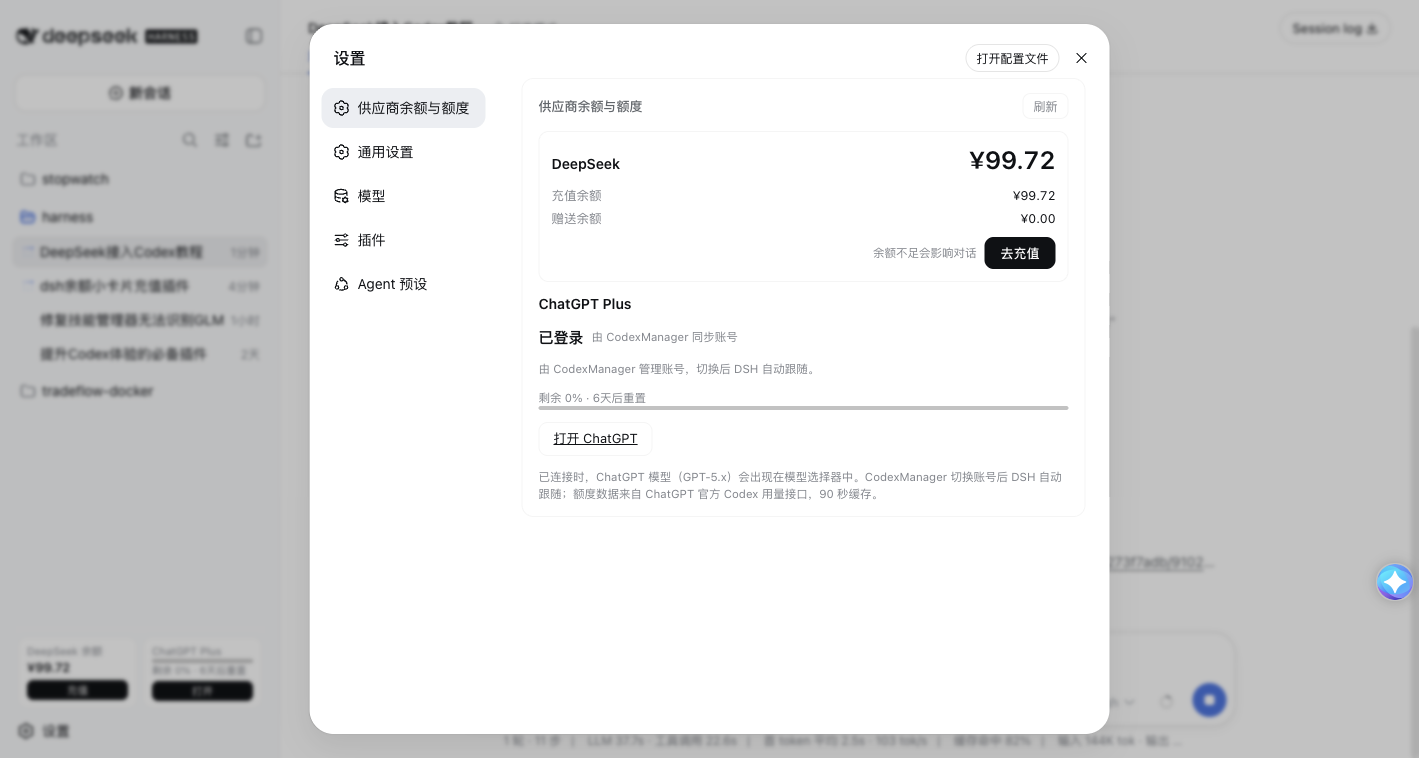
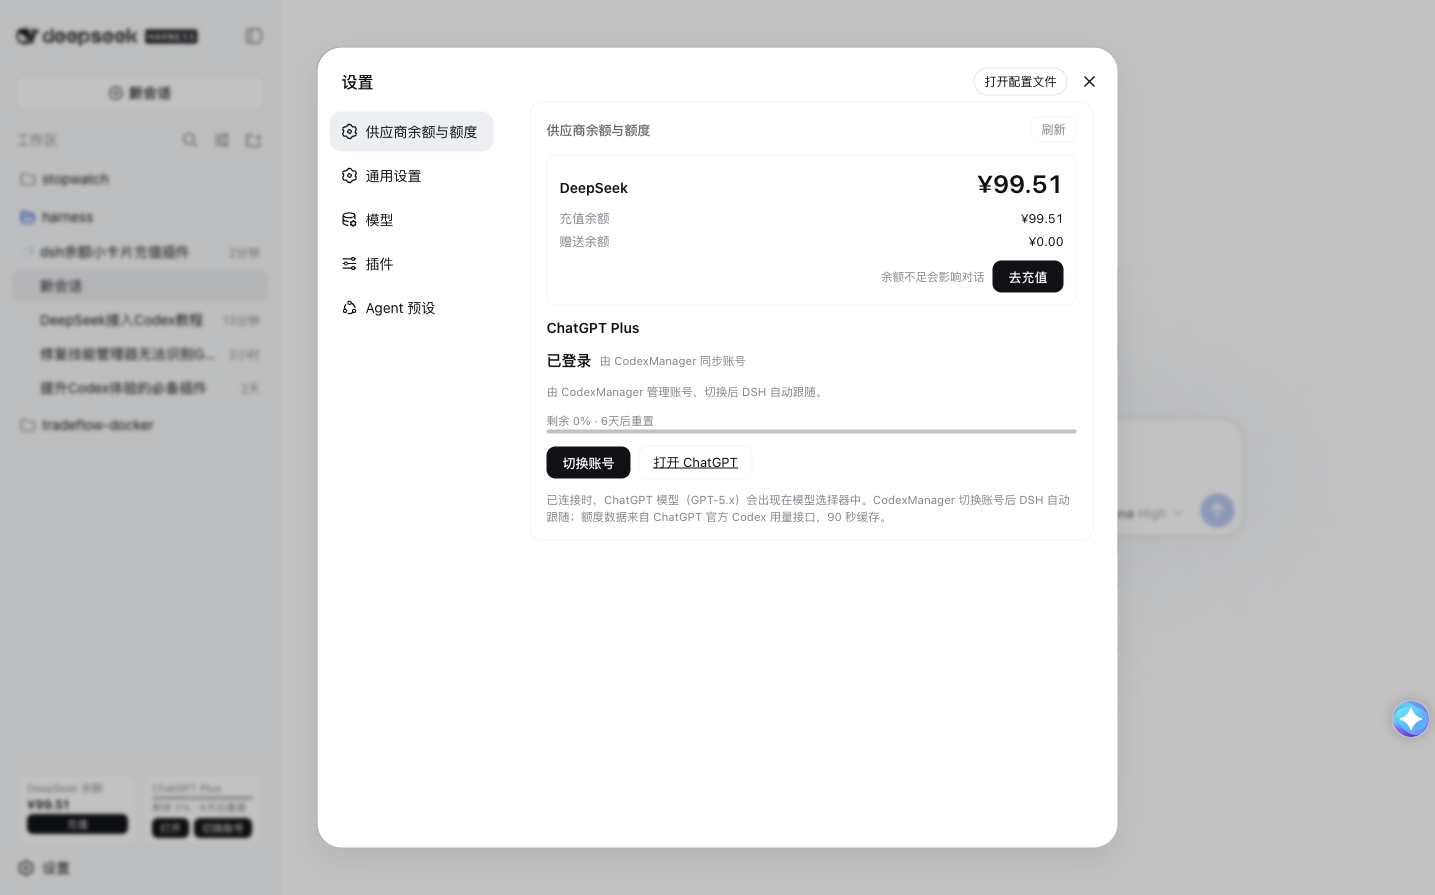
feat: add web account switching entry points

diff --git a/dsh-chatgpt-login/lib/client.js b/dsh-chatgpt-login/lib/client.js
@@ -81,7 +81,8 @@ window.__ModuleLoader__.load({
 			".dshg-progressFill{height:100%;border-radius:999px;background:var(--dsw-alias-state-success-primary);transition:width .25s ease}",
 			".dshg-progressFill.warn{background:var(--dsw-alias-state-warn-primary)}",
 			".dshg-quotaMeta{font-size:10px;line-height:13px;color:var(--dsw-alias-label-tertiary);white-space:nowrap}",
-			".dshg-segBtn{display:inline-flex;align-items:center;justify-content:center;height:20px;margin-top:3px;padding:0 8px;border:none;border-radius:6px;background:var(--dsw-alias-button-primary-fill);color:var(--dsw-alias-label-primary-inverted);text-decoration:none;font-family:inherit;font-size:10.5px;line-height:20px;cursor:pointer}",
+			".dshg-segActions{display:flex;align-items:center;gap:5px;margin-top:3px}",
+			".dshg-segBtn{display:inline-flex;align-items:center;justify-content:center;height:20px;margin:0;padding:0 8px;border:0;border-radius:6px;background:var(--dsw-alias-button-primary-fill);color:var(--dsw-alias-label-primary-inverted);text-decoration:none;font-family:inherit;font-size:10.5px;line-height:20px;cursor:pointer}",
 			".dshg-segBtn:hover{background:var(--dsw-alias-button-primary-hover)}",
 			".dshg-railBtn{display:inline-flex;align-items:center;justify-content:center;width:28px;height:28px;border:none;border-radius:50%;background:var(--dsw-alias-bg-layer-1);color:var(--dsw-alias-label-secondary);font-size:13px;font-weight:600;text-decoration:none;cursor:pointer}",
 			".dshg-railBtn:hover{background:var(--dsw-alias-interactive-bg-hover);color:var(--dsw-alias-label-primary)}",
@@ -166,9 +167,42 @@ window.__ModuleLoader__.load({
 		function SidebarWidget({ wide }) {
 			const chat = useChatGptState();
 			const ds = useDeepSeekBalance();
+			const [switchCode, setSwitchCode] = useState(null);
+			const [switching, setSwitching] = useState(false);
 			const loggedIn = chat.status?.loggedIn === true;
 			const info = chat.status?.account ?? chat.status?.accountId;
 			const chip = quotaChip(chat.quota, loggedIn);
+
+			const switchAccount = () => {
+				const popup = window.open("about:blank", "_blank");
+				setSwitching(true);
+				fetch(LOGIN_START_URL, { method: "POST", headers: { accept: "application/json" } })
+					.then((r) => r.json().catch(() => null))
+					.then((body) => {
+						setSwitching(false);
+						if (body?.ok) {
+							setSwitchCode(body.userCode);
+							if (popup) popup.location.href = body.verificationUrl;
+							else window.open(body.verificationUrl, "_blank");
+						} else if (popup) {
+							popup.close();
+						}
+					})
+					.catch(() => { setSwitching(false); if (popup) popup.close(); });
+			};
+
+			useEffect(() => {
+				if (!switchCode) return;
+				const timer = setInterval(() => {
+					fetch(LOGIN_STATUS_URL, { headers: { accept: "application/json" } })
+						.then((r) => r.json().catch(() => null))
+						.then((body) => {
+							if (body?.state === "approved") { setSwitchCode(null); chat.refresh(); }
+						})
+					.catch(() => {});
+				}, 3000);
+				return () => clearInterval(timer);
+			}, [switchCode]);
 
 			useEffect(() => {
 				const style = document.createElement("style");
@@ -220,8 +254,12 @@ window.__ModuleLoader__.load({
 							jsx("span", { className: "dshg-segLabel", children: planLabel(chat.status?.plan) }),
 							!loggedIn && jsx("span", { className: "dshg-segValue dim", children: "未登录" }),
 							loggedIn && remainingPercent(chat.quota) !== null && jsx("div", { className: "dshg-progress", children: jsx("div", { className: `dshg-progressFill${chip.cls === "warn" ? " warn" : ""}`, style: { width: `${remainingPercent(chat.quota)}%` } }) }),
-							loggedIn && remainingPercent(chat.quota) !== null && jsx("span", { className: "dshg-quotaMeta", children: `剩余 ${remainingPercent(chat.quota)}% · ${resetLabel(chat.quota)}` }),
-							jsx("a", { className: "dshg-segBtn", href: CHATGPT_URL, target: "_blank", rel: "noopener noreferrer", onClick: (e) => e.stopPropagation(), children: loggedIn ? "打开" : "登录" }),
+							loggedIn && remainingPercent(chat.quota) !== null && jsx("span", { className: "dshg-quotaMeta", children: switchCode ? `验证码 ${switchCode}` : `剩余 ${remainingPercent(chat.quota)}% · ${resetLabel(chat.quota)}` }),
+							!loggedIn && jsx("span", { className: "dshg-quotaMeta", children: switchCode ? `验证码 ${switchCode}` : "" }),
+							jsxs("div", { className: "dshg-segActions", children: [
+								jsx("a", { className: "dshg-segBtn", href: CHATGPT_URL, target: "_blank", rel: "noopener noreferrer", onClick: (e) => e.stopPropagation(), children: loggedIn ? "打开" : "登录" }),
+								jsx("button", { type: "button", className: "dshg-segBtn", disabled: switching, onClick: (e) => { e.stopPropagation(); switchAccount(); }, children: switching ? "授权中…" : "切换账号" }),
+							] }),
 						],
 					}),
 				],
@@ -274,6 +312,7 @@ window.__ModuleLoader__.load({
 			const chip = quotaChip(chat.quota, loggedIn);
 
 			const startLogin = () => {
+				const popup = window.open("about:blank", "_blank");
 				setBusy(true);
 				setMsg(null);
 				fetch(LOGIN_START_URL, { method: "POST", headers: { accept: "application/json" } })
@@ -282,11 +321,14 @@ window.__ModuleLoader__.load({
 						setBusy(false);
 						if (body && body.ok === true) {
 							setFlow({ state: "pending", userCode: body.userCode, verificationUrl: body.verificationUrl });
+							if (popup) popup.location.href = body.verificationUrl;
+							else window.open(body.verificationUrl, "_blank");
 						} else {
+							if (popup) popup.close();
 							setMsg({ kind: "bad", text: body?.message ?? "发起授权失败。" });
 						}
 					})
-					.catch(() => { setBusy(false); setMsg({ kind: "bad", text: "网络请求失败，请稍后重试。" }); });
+					.catch(() => { setBusy(false); if (popup) popup.close(); setMsg({ kind: "bad", text: "网络请求失败，请稍后重试。" }); });
 			};
 
 			const logout = () => {
@@ -386,7 +428,7 @@ window.__ModuleLoader__.load({
 					jsxs("div", {
 						className: "dshg-actions",
 						children: [
-							!managedByCodex && jsx("button", { type: "button", className: "dshg-primary", onClick: startLogin, disabled: busy, children: loggedIn ? "重新授权" : "一键授权登录" }),
+							jsx("button", { type: "button", className: "dshg-primary", onClick: startLogin, disabled: busy, children: loggedIn ? "切换账号" : "一键授权登录" }),
 							jsx("a", { className: "dshg-ghost", href: CHATGPT_URL, target: "_blank", rel: "noopener noreferrer", children: "打开 ChatGPT" }),
 							loggedIn && !managedByCodex && jsx("button", { type: "button", className: "dshg-ghost danger", onClick: logout, disabled: busy, children: "退出登录" }),
 						],

diff --git a/README.md b/README.md
@@ -15,7 +15,8 @@ A DeepSeek Harness plugin suite that brings **DeepSeek balance**, **ChatGPT/Code
 - ChatGPT 额度来自官方 Codex 用量接口，显示剩余比例与重置时间
 - 自动同步 `~/.codex/auth.json`，跟随 CodexManager 切换账号
 - 设置页合并为「供应商余额与额度」
-- 一键 DeepSeek 充值、打开 ChatGPT
+- 一键 DeepSeek 充值、打开 ChatGPT、切换 ChatGPT 账号
+- 侧边栏和设置页都提供官方网页授权切换入口
 - 兼容浅色/深色主题，使用 DSH 语义化颜色变量
 
 ### 界面预览
@@ -99,7 +100,8 @@ remaining = 100 - used_percent
 - Reads the official Codex usage endpoint for remaining percentage and reset time
 - Watches `~/.codex/auth.json` and follows CodexManager account switching
 - Unified settings section: **Provider Balances & Quotas**
-- One-click DeepSeek recharge and ChatGPT access
+- One-click DeepSeek recharge, ChatGPT access, and account switching
+- Official web authorization entry in both the sidebar and settings
 - Theme-safe semantic colors for light and dark mode
 
 ### Screenshots
